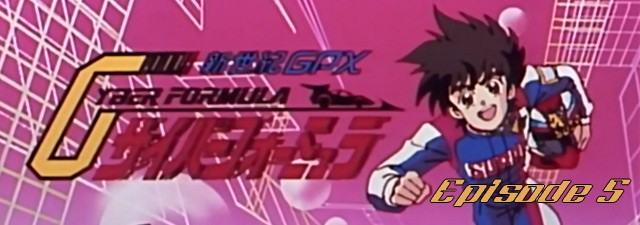
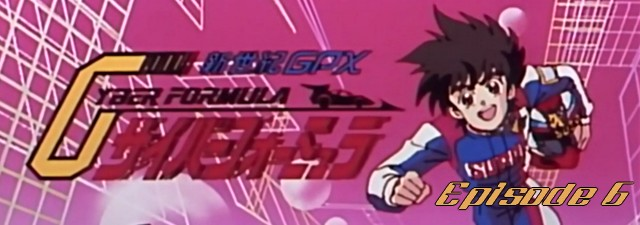
new release

Changed region(s): [[0.6562, 0.7778, 1.0, 0.9333]]

diff --git a/2014-10-07.html b/2014-10-07.html
@@ -1,0 +1,116 @@
+<!DOCTYPE html>
+<html lang="fr-FR">
+	<head>
+		<title>Future GPX Cyber Formula 06 vostfr | Nobluesky Fansub</title>
+		<meta charset="utf-8" />
+		<link rel="Shortcut Icon" type="image/x-icon" href="favicon.ico" />
+		<link href="fonts/fonts.css" rel="stylesheet" type="text/css" />
+		<link href="style.css" rel="stylesheet" type="text/css" media="screen" />
+		<link rel="stylesheet" href="menu.css" type="text/css" />
+		<script src="jquery.js" type="text/javascript"></script>
+		<script src="background-script.js" type="text/javascript"></script>
+	</head>
+<body>
+<div class="banner">
+	<a title="Nobluesky Fansub" href="index.html"> <img class="banner" alt="Nobluesky Fansub" title="Nobluesky Fansub" src="images/banner.png"/> </a>
+</div>
+<!-- end banner -->
+<div id="menu-wrapper">
+	<div id="menu">
+		<ul><li class="menu-line"><a href="index.html">Accueil</a></li>
+		  <li class="menu-line"><a class="inactive" href="#">Projets en cours</a>
+			<ul id="en-cours">
+				<script type="text/javascript">
+				$( '#en-cours' ).load( 'en-cours.html' );
+				</script>
+			</ul>
+		  </li>
+		  <li class="menu-line"><a class="inactive" href="#">Projets terminés</a>
+			<ul id="termines">
+				<script type="text/javascript">
+				$( '#termines' ).load( 'termines.html' );
+				</script>
+			</ul>
+		  </li>
+		  <li class="menu-line"><a href="about.html">A-propos - FAQ</a></li>
+		  <li class="menu-line"><a href="contact.html">Contact</a></li>
+		</ul>
+	</div>
+</div>
+<!-- end #menu -->
+
+<div id="page-wrapper">
+<div id="sidebar-wrapper">
+	<div id="sidebar">
+		<script type="text/javascript">
+		$( '#sidebar' ).load( 'sidebar.html' );
+		</script>
+	</div>
+	<!-- end #sidebar -->
+</div>
+	<div id="article">
+		<div id="content">
+			<div class="post">
+				<h1 class="title">Future GPX Cyber Formula 06 vostfr</h1>
+				<p class="meta"><span class="date">7 Octobre 2014</span><span class="posted">Posté par <a href="about.html#nobluesky">Nobluesky</a></span></p>
+				<div style="clear: both;">&nbsp;</div>
+				<div class="entry">
+					<img class="post-images" src="images/2014/news7.jpg" alt="" />
+					<p>Bonjour à tous,</p>
+					<p>Cette semaine il fait plutôt frisquet, et ce beau mois de Septembre nous laissait espérer un été indien un peu plus long.</p>
+					<p>Pas grave, les couche-tards auront leur dose d'animé pour ce soir, bien au chaud sous la couette!</p>
+					<p>J'ai un peu traîné avant l'upload, mais voici enfin votre dose de Cyber Formule!</p>
+					<p>Hayato s'entraîne pour le Grand Prix du Japon. Mais il n'est pas seul sur le circuit d'Hokkaido, et il y fera des rencontres innatendues. Et se préparer pour un Grand Prix, ça donne des insomnies parfois.</p>
+					<p>Bon épisode!</p>
+					<h3>Téléchargements et streaming</h3>
+					<p class="links dl"><a href="http://jheberg.net/captcha/nobluesub-future-gpx-cyber-formula-06/" class="button-dl">Jheberg</a></p>&nbsp; | &nbsp;
+					<p class="links dl"><a href="http://rutube.ru/video/bba6396877dc6be09ef7cc0671b9e50d/" class="button-dl">Rutube</a></p>&nbsp; | &nbsp;
+					<p class="links dl"><a href="https://mega.co.nz/#!fR93lRib!qJvEJE25_CFpHRPA4yTGcdGqrf9hB_WXgy0jbx4-nVo" class="button-dl">Mega</a></p>
+					<h3>Commentaires</h3>
+					<div id="disqus_thread"></div>
+					<script type="text/javascript">
+						/* * * CONFIGURATION VARIABLES: EDIT BEFORE PASTING INTO YOUR WEBPAGE * * */
+						var disqus_shortname = 'noblueskyfansub'; // required: replace example with your forum shortname
+
+						/* * * DON'T EDIT BELOW THIS LINE * * */
+						(function() {
+							var dsq = document.createElement('script'); dsq.type = 'text/javascript'; dsq.async = true;
+							dsq.src = '//' + disqus_shortname + '.disqus.com/embed.js';
+							(document.getElementsByTagName('head')[0] || document.getElementsByTagName('body')[0]).appendChild(dsq);
+						})();
+					</script>
+					<noscript>Activez javascript pour voir les commentaires.</noscript>
+					<a href="http://disqus.com" class="dsq-brlink">commentaires propulsés par <span class="logo-disqus">Disqus</span></a>
+				</div>
+			</div>
+			<div style="clear: both;">&nbsp;</div>
+		</div>
+		<!-- end #content -->
+		<div style="clear: both;">&nbsp;</div>
+	</div>
+</div>
+<!-- end #page -->
+<script type="text/javascript">
+$(window).scroll(function() {
+    if ($(this).scrollTop() < 1000) {
+        $("#footer").hide();
+    }
+    else {
+        $("#footer").show();
+    }
+});
+$(window).scroll(function() {
+  if ($(this).scrollTop() < 1000) {
+    $("footer").slideUp();
+      }
+  else {
+    $("footer").slideDown();
+      }
+});		
+</script>
+<div id="footer">
+	<p>&copy; 2014 - Design par Nobluesky - Tous droits réservés. <a id="legal" href="about.html#faqinfos">Mentions Légales</a></p>
+</div>
+<!-- end #footer -->
+</body>
+</html>

diff --git a/index.html b/index.html
@@ -47,7 +47,7 @@
 	<div class="slider-wrapper theme-default">
 		<div class="ribbon"></div>
 		<div id="slider" class="nivoSlider">
-			<a href="2014-09-21.html"><img src="images/img01.jpg" alt="" /></a>
+			<a href="2014-10-07.html"><img src="images/img01.jpg" alt="" /></a>
 		</div>
 	</div>
 <script type="text/javascript">
@@ -72,6 +72,21 @@
 				<div style="clear: both;">&nbsp;</div>
 				<div class="entry">
 					<p>Bienvenue sur le site de la Nobluesky Fansub!</p>
+				</div>
+			</div>
+			<div class="post">
+				<h1 class="title"><a href="2014-10-07.html">Future GPX Cyber Formula 06 vostfr</a></h1>
+				<p class="meta"><span class="date">7 Octobre 2014</span><span class="posted">Posté par <a href="about.html#nobluesky">Nobluesky</a></span></p>
+				<p><a href="http://nobluesub.com/2014-10-07.html#disqus_thread">Commentaires</a></p>
+				<div style="clear: both;">&nbsp;</div>
+				<div class="entry">
+					<img class="post-images" src="images/2014/news7.jpg" alt="" />
+					<p>Bonjour à tous,</p>
+					<p>Cette semaine il fait plutôt frisquet, et ce beau mois de Septembre nous laissait espérer un été indien un peu plus long.</p>
+					<p>Pas grave, les couche-tards auront leur dose d'animé pour ce soir, bien au chaud sous la couette!</p>
+					<p>J'ai un peu traîné avant l'upload, mais voici enfin votre dose de Cyber Formule!</p>
+					<p>Hayato s'entraîne pour le Grand Prix du Japon. Mais il n'est pas seul sur le circuit d'Hokkaido, et il y fera des rencontres innatendues. Et se préparer pour un Grand Prix, ça donne des insomnies parfois...</p>
+					<p class="links"><a href="2014-10-07.html" class="button">Lire la suite</a></p>
 				</div>
 			</div>
 			<div class="post">
@@ -128,19 +143,6 @@
 					<p>Hayato a bien réussi à amener l'Asurada à bon port, mais le pilote officiel ne peut la conduire à cause du système d'identification. L'informaticien du groupe va tenter de résoudre le problème.</p>
 					<p>L'équipe est en danger et va devoir discuter sérieusement! Qui va piloter l'Asurada...</p>
 					<p class="links"><a href="2014-08-13.html" class="button">Lire la suite</a></p>
-				</div>
-			</div>
-			<div class="post">
-				<h1 class="title"><a href="2014-08-09.html">Future GPX Cyber Formula 01 vostfr</a></h1>
-				<p class="meta"><span class="date">9 Août 2014</span><span class="posted">Posté par <a href="about.html#nobluesky">Nobluesky</a></span></p>
-				<p><a href="http://nobluesub.com/2014-08-09.html#disqus_thread">Commentaires</a></p>
-				<div style="clear: both;">&nbsp;</div>
-				<div class="entry">
-					<img class="post-images" src="images/2014/news2.jpg" alt="" />
-					<p>Mais quel animé choisir en ce moment? Telle est la question. Ou plutôt était car je vous présente dès maintenant le premier épisode de mon nouveau projet, Future GPX Cyber Formula.</p>
-					<p>Il s'agit d'une vieille série datant de 1991, avec son charme de l'époque et ses personnages au dessin daté et à la candeur parfois trop grande et avec des vrais méchants pas gentils, mais c'est pour le plus grand plaisir des amateurs de vintage que je vous propose sa sortie en vostfr.</p>
-					<p>Nous voilà en 2015^^ durant les préliminaires d'une course de Cyber Formule...</p>
-					<p class="links"><a href="2014-08-09.html" class="button">Lire la suite</a></p>
 				</div>
 			</div>
 			<div style="clear: both;">&nbsp;</div>

diff --git a/page2.html b/page2.html
@@ -45,7 +45,7 @@
 	<div class="slider-wrapper theme-default">
 		<div class="ribbon"></div>
 		<div id="slider" class="nivoSlider">
-			<a href="future-gpx-cyber-formula.html"><img src="images/img01.jpg" alt="" /></a>
+			<a href="2014-10-07.html"><img src="images/img01.jpg" alt="" /></a>
 		</div>
 	</div>
 <script type="text/javascript">
@@ -64,6 +64,19 @@
 </div>
 	<div id="feed">
 		<div id="content">
+			<div class="post">
+				<h1 class="title"><a href="2014-08-09.html">Future GPX Cyber Formula 01 vostfr</a></h1>
+				<p class="meta"><span class="date">9 Août 2014</span><span class="posted">Posté par <a href="about.html#nobluesky">Nobluesky</a></span></p>
+				<p><a href="http://nobluesub.com/2014-08-09.html#disqus_thread">Commentaires</a></p>
+				<div style="clear: both;">&nbsp;</div>
+				<div class="entry">
+					<img class="post-images" src="images/2014/news2.jpg" alt="" />
+					<p>Mais quel animé choisir en ce moment? Telle est la question. Ou plutôt était car je vous présente dès maintenant le premier épisode de mon nouveau projet, Future GPX Cyber Formula.</p>
+					<p>Il s'agit d'une vieille série datant de 1991, avec son charme de l'époque et ses personnages au dessin daté et à la candeur parfois trop grande et avec des vrais méchants pas gentils, mais c'est pour le plus grand plaisir des amateurs de vintage que je vous propose sa sortie en vostfr.</p>
+					<p>Nous voilà en 2015^^ durant les préliminaires d'une course de Cyber Formule...</p>
+					<p class="links"><a href="2014-08-09.html" class="button">Lire la suite</a></p>
+				</div>
+			</div>
 			<div class="post">
 				<h1 class="title"><a href="2014-07-26.html">Ouverture du site</a></h1>
 				<p class="meta"><span class="date">26 Juillet 2014</span><span class="posted">Posté par <a href="about.html#nobluesky">Nobluesky</a></span></p>

diff --git a/future-gpx-cyber-formula.html b/future-gpx-cyber-formula.html
@@ -86,6 +86,11 @@
 					<p class="links dl"><a href="http://jheberg.net/captcha/nobluesub-future-gpx-cyber-formula-05-2/" class="button-dl">Jheberg</a></p>&nbsp; | &nbsp;
 					<p class="links dl"><a href="http://rutube.ru/video/cdb321c2341d38bf4f9a9459328df25a/" class="button-dl">Rutube</a></p>&nbsp; | &nbsp;
 					<p class="links dl"><a href="https://mega.co.nz/#!TJMEHaqR!5MK3b0dlJ4qSskOpuQutDG6DUAKWHc2YpZAXfvyLmJM" class="button-dl">Mega</a></p>
+					<br>
+					Episode 6 : 
+					<p class="links dl"><a href="http://jheberg.net/captcha/nobluesub-future-gpx-cyber-formula-06/" class="button-dl">Jheberg</a></p>&nbsp; | &nbsp;
+					<p class="links dl"><a href="http://rutube.ru/video/bba6396877dc6be09ef7cc0671b9e50d/" class="button-dl">Rutube</a></p>&nbsp; | &nbsp;
+					<p class="links dl"><a href="https://mega.co.nz/#!fR93lRib!qJvEJE25_CFpHRPA4yTGcdGqrf9hB_WXgy0jbx4-nVo" class="button-dl">Mega</a></p>
 				</div>
 			</div>
 			<div style="clear: both;">&nbsp;</div>

diff --git a/sidebar.html b/sidebar.html
@@ -23,7 +23,7 @@
 		<li>
 			<h2>Avancements</h2>
 			<ul>
-				<li>Future GPX Cyber Formula 06 : 80%<progress max="100" value="80"></progress></li>
+				<li>Future GPX Cyber Formula 06 : 100%<progress max="100" value="100"></progress></li>
 			</ul>
 		</li>
 		<li>
